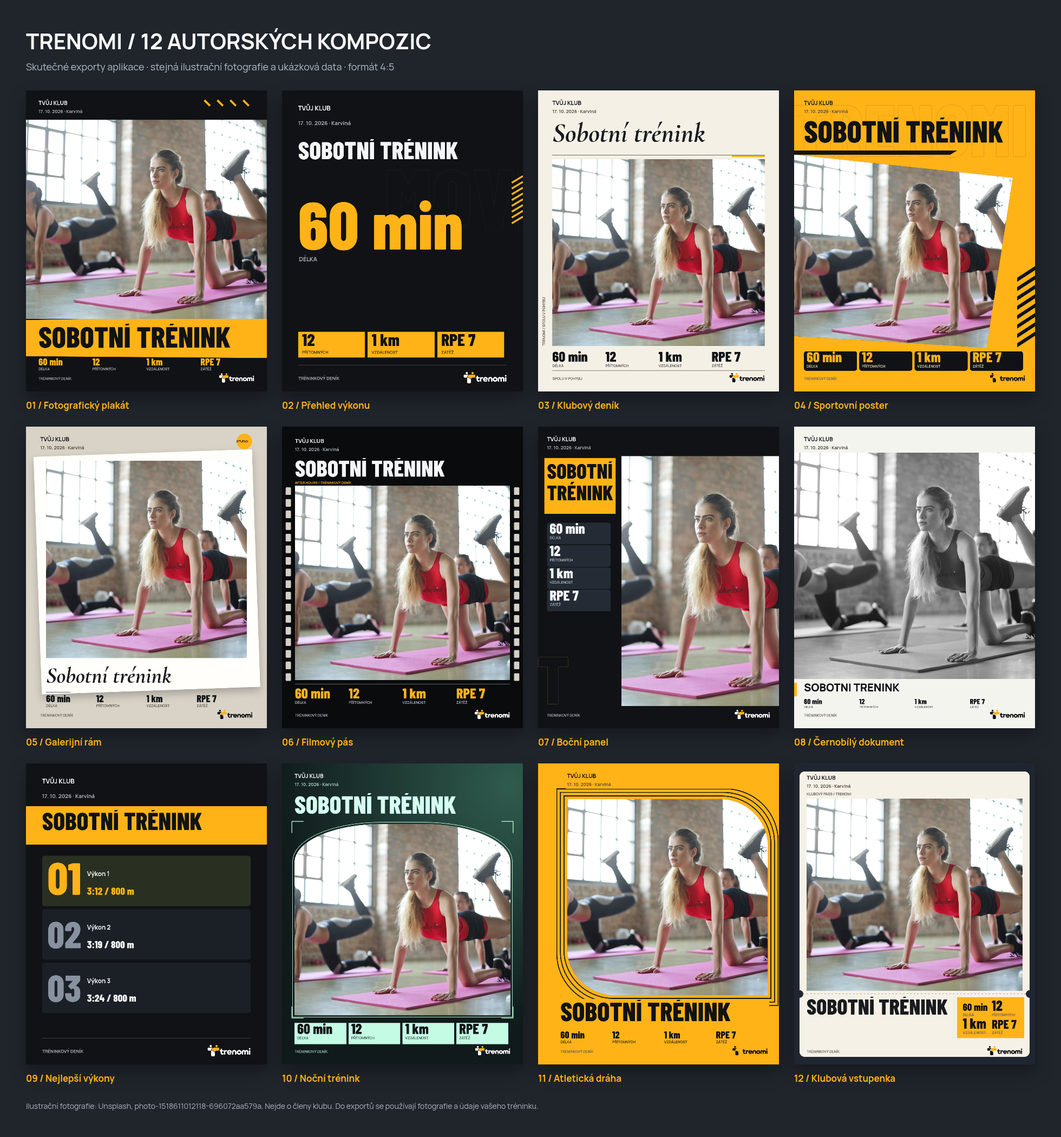
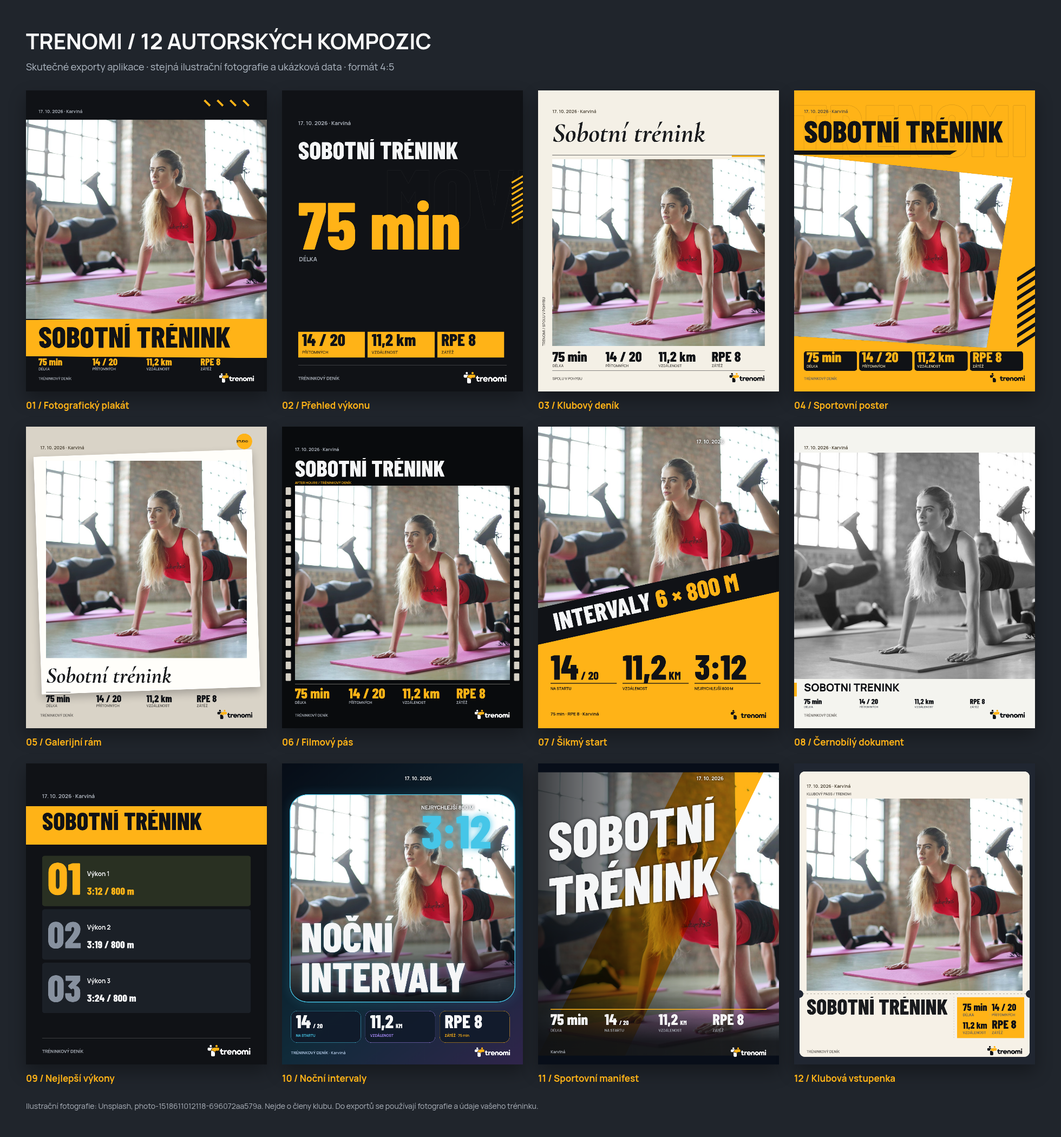
Replace sharing templates 07, 10 and 11 with bold reference-inspired posters

diff --git a/src/journalShare.ts b/src/journalShare.ts
@@ -1,11 +1,11 @@
 import {drawShareStickers,type ShareSticker} from './shareStickers';
 import {photoPlacement} from './sharePhotoTransform';
-import {photoShareLayout,usesSharePhoto,sharePhotoPath,type GraphicBox} from './journalShareLayouts';
+import {photoShareLayout,usesSharePhoto,sharePhotoPath,type GraphicBox,isSignatureTemplate} from './journalShareLayouts';
 export {usesSharePhoto} from './journalShareLayouts';
 export const shareFormats={'1:1':{width:1080,height:1080,label:'Příspěvek 1:1'},'4:5':{width:1080,height:1350,label:'Příspěvek 4:5'},'9:16':{width:1080,height:1920,label:'Story 9:16'}};
 export type ShareFormat=keyof typeof shareFormats;
 export type ShareTemplate='stats'|'photo'|'best'|'editorial'|'sport'|'frame'|'cinema'|'split'|'clean'|'neon'|'track'|'ticket'|'distance'|'column'|'headline';
-export const shareTemplates=[{id:'photo',name:'Fotografický plakát'},{id:'stats',name:'Přehled výkonu'},{id:'editorial',name:'Klubový deník'},{id:'sport',name:'Sportovní poster'},{id:'frame',name:'Galerijní rám'},{id:'cinema',name:'Filmový pás'},{id:'split',name:'Boční panel'},{id:'clean',name:'Černobílý dokument'},{id:'best',name:'Nejlepší výkony'},{id:'neon',name:'Noční trénink'},{id:'track',name:'Atletická dráha'},{id:'ticket',name:'Klubová vstupenka'}] as const;
+export const shareTemplates=[{id:'photo',name:'Fotografický plakát'},{id:'stats',name:'Přehled výkonu'},{id:'editorial',name:'Klubový deník'},{id:'sport',name:'Sportovní poster'},{id:'frame',name:'Galerijní rám'},{id:'cinema',name:'Filmový pás'},{id:'split',name:'Šikmý start'},{id:'clean',name:'Černobílý dokument'},{id:'best',name:'Nejlepší výkony'},{id:'neon',name:'Noční intervaly'},{id:'track',name:'Sportovní manifest'},{id:'ticket',name:'Klubová vstupenka'}] as const;
 export const editorTemplates=[{id:'distance',name:'Kilometry'},{id:'column',name:'Sloupec dat'},{id:'headline',name:'Jen titulek'}] as const;
 export type ShareGraphic={showClubIdentity?:boolean;accent?:string;stickers?:ShareSticker[];team:string;title:string;photo:string|null;photoFit?:'contain'|'cover';clubLogo?:string;date?:string;place?:string;crop?:{x:number;y:number;zoom:number};format:ShareFormat;template:ShareTemplate;metrics:{value:string;label:string}[];best:{name:string;value:string}[]};
 const orange='#FFB317',background='#101216',white='#F5F6F7',muted='#A9AFB8';
@@ -80,21 +80,8 @@ function photoGraphic(ctx:CanvasRenderingContext2D,input:ShareGraphic,brand:HTML
    for(let y=p.y+8;y<p.y+p.height-10;y+=52){rounded(ctx,{x:16,y,width:24,height:34},'#D5D0C5',4);rounded(ctx,{x:1040,y,width:24,height:34},'#D5D0C5',4)}
    text(ctx,'AFTER HOURS / TRÉNINKOVÝ DENÍK',58,p.y-8,964,15,orange);
    line(ctx,58,m.y-15,1022,m.y-15,'#D5D0C5',1);break;
-  case 'split':
-   rounded(ctx,{x:t.x-12,y:t.y-16,width:t.width+24,height:t.height+20},orange,0);l.ink=background;
-   if(input.format!=='9:16'){ctx.save();ctx.font='800 300px "Trenomi Display"';ctx.strokeStyle='#FFB31735';ctx.lineWidth=2;ctx.strokeText('T',-5,p.y+p.height-8);ctx.restore()}
-   break;
   case 'clean':
    ctx.fillStyle=orange;ctx.fillRect(0,t.y,12,t.height);break;
-  case 'neon':{
-   const glow=ctx.createRadialGradient(1030,100,10,1030,100,height);glow.addColorStop(0,'#2F5B4D');glow.addColorStop(.8,'#101A1B');ctx.fillStyle=glow;ctx.fillRect(0,0,1080,height);
-   sharePhotoPath(ctx,{x:p.x-8,y:p.y-8,width:p.width+16,height:p.height+16},'neon',input.photoFit??'cover');ctx.strokeStyle=(input.accent||'#BEFFD9');ctx.lineWidth=2;ctx.stroke();
-   for(let x=0;x<1080;x+=36)for(let y=top;y<height;y+=36){ctx.fillStyle='#C9FFE516';ctx.fillRect(x,y,2,2)}
-   for(const [x,y,sx,sy] of [[p.x-12,p.y-12,1,1],[p.x+p.width+12,p.y-12,-1,1],[p.x-12,p.y+p.height+12,1,-1],[p.x+p.width+12,p.y+p.height+12,-1,-1]]){line(ctx,x,y,x+sx*52,y,(input.accent||'#BEFFD9'),3);line(ctx,x,y,x,y+sy*52,(input.accent||'#BEFFD9'),3)}
-   break;}
-  case 'track':
-   ctx.save();ctx.beginPath();ctx.rect(0,0,1080,height);for(const b of [l.header,l.title,l.metrics,l.footer])ctx.rect(b.x-6,b.y-4,b.width+12,b.height+8);ctx.clip('evenodd');ctx.strokeStyle='#101216';ctx.lineWidth=4;
-   for(const inset of [14,30,46]){sharePhotoPath(ctx,{x:p.x-inset,y:p.y-inset,width:p.width+2*inset,height:p.height+2*inset},'track',input.photoFit??'cover');ctx.stroke()}ctx.restore();break;
   case 'ticket':
    rounded(ctx,{x:24,y:top-12,width:1032,height:height-top-(input.format==='9:16'?150:22)},'#F6F1E7',24);
    ctx.save();ctx.setLineDash([7,9]);line(ctx,24,t.y-12,1056,t.y-12,'#827D72',2);ctx.restore();
@@ -124,6 +111,56 @@ function photoGraphic(ctx:CanvasRenderingContext2D,input:ShareGraphic,brand:HTML
  }));
  clipped(ctx,l.footer,()=>{const w=160,h=w*420/1530;ctx.drawImage(brand,l.footer.x+l.footer.width-w,l.footer.y+(l.footer.height-h)/2,w,h);text(ctx,input.template==='editorial'?'SPOLU V POHYBU':'TRÉNINKOVÝ DENÍK',l.footer.x,l.footer.y+l.footer.height*.72,l.footer.width-w-28,16,l.light?'#65615C':l.muted)});
 }
+function signaturePhotoGraphic(ctx:CanvasRenderingContext2D,input:ShareGraphic,brand:HTMLImageElement,photo:HTMLImageElement|null,clubLogo:HTMLImageElement|null){
+ if(!isSignatureTemplate(input.template))return;
+ const l=photoShareLayout(input.template,input.format),p=l.photo,m=l.metrics,top=l.header.y,height=shareFormats[input.format].height,bottom=l.footer.y+l.footer.height,accent=input.accent||(input.template==='neon'?'#46C6E8':'#FFB317');
+ const metrics=input.metrics.filter(v=>v.label.trim()&&v.value.trim()),metric=(label:string)=>metrics.find(v=>v.label===label),fast=metrics.find(v=>v.label.toLocaleLowerCase('cs-CZ').startsWith('nejrychlejší '));
+ const present=metric('přítomných'),distance=metric('vzdálenost'),effort=metric('zátěž'),duration=metric('délka');
+ const caption=(v:ShareGraphic['metrics'][number])=>v.label==='přítomných'?'NA STARTU':v.label.toLocaleUpperCase('cs-CZ');
+ const number=(v:string,x:number,y:number,w:number,size:number,ink:string)=>{
+  const parts=v.match(/^(.+?)\s*(km|\/\s*\d+)$/i);
+  if(!parts){text(ctx,v,x,y,w,size,ink,true);return}
+  const unit=parts[2].toLocaleUpperCase('cs-CZ'),unitSize=Math.max(28,size*.33);ctx.font=`800 ${unitSize}px "Trenomi Display"`;const uw=ctx.measureText(unit).width;
+  text(ctx,parts[1],x,y,w-uw-12,size,ink,true);const nw=ctx.measureText(parts[1]).width;text(ctx,unit,x+Math.min(w-uw,nw+10),y,uw,unitSize,ink,true);
+ };
+ ctx.fillStyle=input.template==='split'?accent:'#080E19';ctx.fillRect(0,0,1080,height);
+ if(input.template==='neon'){
+  const glow=ctx.createLinearGradient(0,0,1080,height);glow.addColorStop(0,'#070D17');glow.addColorStop(.6,'#102B3A');glow.addColorStop(1,'#30254B');ctx.fillStyle=glow;ctx.fillRect(0,0,1080,height);
+  ctx.save();ctx.shadowBlur=38;ctx.shadowColor=accent;sharePhotoPath(ctx,p,input.template,input.photoFit??'cover');ctx.strokeStyle=accent;ctx.lineWidth=3;ctx.stroke();ctx.restore();
+ }
+ photoBox(ctx,photo,p,input);
+ if(input.template==='split'){
+  const angle=Math.atan2(-p.height*.25,p.width),cy=p.y+p.height*.875-60;
+  ctx.save();ctx.translate(540,cy);ctx.rotate(angle);ctx.fillStyle='#101216';ctx.fillRect(-650,-80,1300,160);
+  let size=112,lines:string[]=[];for(;size>26;size--){ctx.font=`800 ${size}px "Trenomi Display"`;lines=shareTitleLines(ctx,input.title.toLocaleUpperCase('cs-CZ'),960,2);if(lines.length*size<=135)break}
+  lines.forEach((value,i)=>{const y=-lines.length*size/2+size*.83+i*size,split=value.search(/\d/);ctx.font=`800 ${size}px "Trenomi Display"`;const first=split<0?value:value.slice(0,split),rest=split<0?'':value.slice(split);ctx.fillStyle=white;ctx.fillText(first,-480,y,960);const used=ctx.measureText(first).width;ctx.fillStyle=accent;if(rest)ctx.fillText(rest,-480+used,y,Math.max(1,960-used))});ctx.restore();
+  const values=[present,distance,fast||effort||duration].filter((v):v is NonNullable<typeof v>=>!!v),cw=m.width/Math.max(1,values.length);
+  values.forEach((v,i)=>{const x=m.x+i*cw;number(v.value,x,m.y+m.height*.72,cw-26,m.height*.88,background);rule(ctx,x,m.y+m.height*.8,cw-26,background);text(ctx,caption(v),x,m.y+m.height*.98,cw-26,17,background)});
+  const details=[duration?.value,effort?.value,input.place].filter(Boolean).join(' · ');text(ctx,details,56,bottom-12,730,20,background);
+ }else if(input.template==='neon'){
+  const shade=ctx.createLinearGradient(0,p.y+p.height*.56,0,p.y+p.height);shade.addColorStop(0,'#080E1900');shade.addColorStop(1,'#050A12F0');ctx.save();sharePhotoPath(ctx,p,input.template,input.photoFit??'cover');ctx.clip();ctx.fillStyle=shade;ctx.fillRect(p.x,p.y,p.width,p.height);
+  const words=input.title.trim().toLocaleUpperCase('cs-CZ').split(/\s+/).filter(Boolean),cut=Math.max(1,Math.floor(words.length/2)),lines=words.length>1?[words.slice(0,cut).join(' '),words.slice(cut).join(' ')]:words;
+  let size=Math.min(190,p.height*.2);ctx.font=`800 ${size}px "Trenomi Display"`;while(lines.some(value=>ctx.measureText(value).width>p.width-96)&&size>28)ctx.font=`800 ${--size}px "Trenomi Display"`;ctx.shadowColor=accent+'60';ctx.shadowBlur=18;lines.forEach((value,i)=>text(ctx,value,p.x+48,p.y+p.height-44-(lines.length-1-i)*size*.96,p.width-96,size,white,true));ctx.shadowBlur=0;
+  if(fast){const x=p.x+p.width-420,y=p.y+66;ctx.shadowColor='#050A12';ctx.shadowBlur=12;text(ctx,caption(fast),x,y,370,23,white);ctx.shadowColor=accent;ctx.shadowBlur=30;text(ctx,fast.value,x,y+176,370,210,accent,true)}ctx.restore();
+  ctx.save();sharePhotoPath(ctx,p,input.template,input.photoFit??'cover');ctx.strokeStyle=accent;ctx.lineWidth=3;ctx.stroke();ctx.restore();
+  const values=[present,distance,effort||duration].filter((v):v is NonNullable<typeof v>=>!!v),cw=m.width/Math.max(1,values.length);
+  values.forEach((v,i)=>{const x=m.x+i*cw,c=[accent,'#A88AF8','#FFB317'][i];rounded(ctx,{x,y:m.y,width:cw-20,height:m.height},'#101A2AE8',28);ctx.strokeStyle=c;ctx.lineWidth=1;ctx.beginPath();ctx.roundRect(x,m.y,cw-20,m.height,28);ctx.stroke();number(v.value,x+22,m.y+78,cw-58,83,white);text(ctx,caption(v)+(v===effort&&duration?' · '+duration.value:''),x+22,m.y+116,cw-58,16,c)});
+  text(ctx,['TRÉNINKOVÝ DENÍK',input.place].filter(Boolean).join(' · '),40,bottom-6,760,18,'#A9C0DC');
+ }else{
+  const shade=ctx.createLinearGradient(0,0,1080,0);shade.addColorStop(0,'#070A0EC9');shade.addColorStop(.75,'#070A0E00');ctx.fillStyle=shade;ctx.fillRect(0,p.y,1080,p.height);
+  ctx.save();ctx.globalCompositeOperation='multiply';polygon(ctx,[[650,p.y],[1010,p.y],[390,p.y+p.height],[0,p.y+p.height]],accent);ctx.restore();
+  const low=ctx.createLinearGradient(0,bottom-320,0,bottom);low.addColorStop(0,'#10121600');low.addColorStop(.8,'#101216ED');ctx.fillStyle=low;ctx.fillRect(0,bottom-320,1080,320);
+  const box={...l,ink:white,titleSize:240,titleLines:3};ctx.save();ctx.transform(1,-.13,0,1,0,80);ctx.shadowColor='#101216';ctx.shadowBlur=14;regionTitle(ctx,input,box);ctx.restore();
+  const values=metrics.filter(v=>v!==fast).slice(0,4),cw=m.width/Math.max(1,values.length);rule(ctx,m.x,m.y-14,m.width,accent);
+  values.forEach((v,i)=>{const x=m.x+i*cw;number(v.value,x,m.y+58,cw-20,69,white);text(ctx,caption(v),x,m.y+88,cw-20,16,muted)});
+  text(ctx,input.place||'TRÉNINKOVÝ DENÍK',56,bottom-10,750,18,muted);
+ }
+ // Club identity is opt-in; the editor's movable original logo/name remain independent.
+ if(input.showClubIdentity!==false){text(ctx,input.team,56,top+35,650,26,input.template==='split'?white:accent);if(clubLogo){const factor=Math.min(46/clubLogo.naturalWidth,46/clubLogo.naturalHeight);ctx.drawImage(clubLogo,56,top+48,clubLogo.naturalWidth*factor,clubLogo.naturalHeight*factor)}}
+ const dateX=input.template==='neon'?550:710;ctx.save();ctx.shadowColor='#05080A';ctx.shadowBlur=12;text(ctx,input.date||'',dateX,top+35,1080-dateX-56,22,white);ctx.restore();
+ ctx.drawImage(brand,862,bottom-38,162,162*420/1530);
+}
+
 function editorPhotoGraphic(ctx:CanvasRenderingContext2D,input:ShareGraphic,brand:HTMLImageElement,photo:HTMLImageElement|null,clubLogo:HTMLImageElement|null){
  const {height}=shareFormats[input.format],accent=input.accent||'#FFB317',story=input.format==='9:16',top=story?155:52,bottom=height-(story?175:56),left=56;
  photoBox(ctx,photo,{x:0,y:0,width:1080,height},input);
@@ -149,6 +186,7 @@ export async function renderShareGraphic(input:ShareGraphic){
  const canvas=document.createElement('canvas');canvas.width=width;canvas.height=height;const ctx=canvas.getContext('2d');if(!ctx)throw new Error('Grafiku nelze připravit.');ctx.fillStyle=background;ctx.fillRect(0,0,width,height);
  const orange=input.accent||'#FFB317';
  if(['distance','column','headline'].includes(input.template)){editorPhotoGraphic(ctx,input,brand,photo,clubLogo);drawShareStickers(ctx,input.stickers,width,height,orange,clubLogo);return canvas}
+ if(isSignatureTemplate(input.template)){signaturePhotoGraphic(ctx,input,brand,photo,clubLogo);drawShareStickers(ctx,input.stickers,width,height,orange,clubLogo);return canvas}
  if(usesSharePhoto(input.template)){photoGraphic(ctx,input,brand,photo,clubLogo);drawShareStickers(ctx,input.stickers,width,height,orange,clubLogo);return canvas}
  const story=input.format==='9:16',top=story?160:64,bottom=height-(story?170:64),left=72,right=1008,contentWidth=936;
  // Club identity and application brand stay inside Story safe areas.

diff --git a/src/JournalSharePanel.tsx b/src/JournalSharePanel.tsx
@@ -22,7 +22,8 @@ export function JournalSharePanel({team,eventName,photo,clubLogo,date,place,metr
  const [removals,setRemovals]=useState<RemovedField[]>([]);
  const [crop,setCrop]=useState({x:.5,y:.5,zoom:1}),[photoFit,setPhotoFit]=useState<'contain'|'cover'>('cover'),[pickerOpen,setPickerOpen]=useState(false),[preciseOpen,setPreciseOpen]=useState(()=>!window.matchMedia('(hover: none) and (pointer: coarse)').matches);
  const preview=useRef<HTMLCanvasElement>(null),rendered=useRef<HTMLCanvasElement|null>(null),exportSection=useRef<HTMLElement>(null);
- const previousCaption=useRef(defaultCaption);
+ const previousCaption=useRef(defaultCaption),accentChosen=useRef(false);
+ function chooseTemplate(value:ShareTemplate){setTemplate(value);if(!accentChosen.current)setAccent(value==='neon'?'#46C6E8':'#FFB317')}
  useEffect(()=>{const media=window.matchMedia('(hover: none) and (pointer: coarse)'),changed=()=>setPreciseOpen(!media.matches);media.addEventListener('change',changed);return()=>media.removeEventListener('change',changed)},[]);
  useEffect(()=>{setCaption(value=>value===previousCaption.current?defaultCaption:value);previousCaption.current=defaultCaption},[defaultCaption]);
  useEffect(()=>{setCrop({x:.5,y:.5,zoom:1})},[photo]);
@@ -66,8 +67,8 @@ export function JournalSharePanel({team,eventName,photo,clubLogo,date,place,metr
  </section><section className="share-editor-tools" aria-label="Nástroje editoru"><div className="share-editor-tabs" role="tablist" aria-label="Editor obrázku">{([['templates','Šablony'],['data','Data'],['stickers','Samolepky']] as const).map(([id,label])=><button key={id} role="tab" id={'share-tab-'+id} aria-selected={tab===id} aria-controls={'share-panel-'+id} onClick={()=>setTab(id)} onKeyDown={e=>{const ids=['templates','data','stickers'] as const,index=ids.indexOf(id);const next=e.key==='ArrowRight'?(index+1)%3:e.key==='ArrowLeft'?(index+2)%3:e.key==='Home'?0:e.key==='End'?2:-1;if(next>=0){e.preventDefault();setTab(ids[next]);e.currentTarget.parentElement?.querySelectorAll('button')[next]?.focus()}}}>{label}</button>)}</div>
  <div role="tabpanel" id="share-panel-templates" aria-labelledby="share-tab-templates" hidden={tab!=='templates'}>
 
- <details className="share-template-picker" open={pickerOpen} onToggle={e=>setPickerOpen(e.currentTarget.open)}><summary aria-label="Vybrat šablonu grafiky">{selectedTemplateIndex>=0&&<b className="share-template-number">{String(selectedTemplateIndex+1).padStart(2,'0')}</b>} <span>{allTemplates.find(t=>t.id===template)?.name}</span><small>Vybrat vzhled · {allTemplates.length}</small></summary>{pickerOpen&&<div className="share-template-cards" role="group" aria-label="Šablona grafiky">{allTemplates.map(t=><button key={t.id} aria-label={t.name} aria-pressed={template===t.id} onClick={()=>{setTemplate(t.id);setPickerOpen(false)}}><TemplatePreview graphic={{...graphic,format:'4:5',crop:{x:.5,y:.5,zoom:1},template:t.id}}/>{shareTemplates.some(v=>v.id===t.id)&&<b className="share-template-number">{String(shareTemplates.findIndex(v=>v.id===t.id)+1).padStart(2,'0')}</b>}<span>{t.name}</span></button>)}</div>}</details>
- <fieldset className="share-accent-picker"><legend>Barva grafiky</legend>{shareAccents.map(a=><button key={a.value} aria-label={a.name} aria-pressed={accent===a.value} style={{background:a.value}} onClick={()=>setAccent(a.value)}/>)}</fieldset><p className="muted">Barva platí pro tento obrázek. Klubové nastavení se nemění.</p>
+ <details className="share-template-picker" open={pickerOpen} onToggle={e=>setPickerOpen(e.currentTarget.open)}><summary aria-label="Vybrat šablonu grafiky">{selectedTemplateIndex>=0&&<b className="share-template-number">{String(selectedTemplateIndex+1).padStart(2,'0')}</b>} <span>{allTemplates.find(t=>t.id===template)?.name}</span><small>Vybrat vzhled · {allTemplates.length}</small></summary>{pickerOpen&&<div className="share-template-cards" role="group" aria-label="Šablona grafiky">{allTemplates.map(t=><button key={t.id} aria-label={t.name} aria-pressed={template===t.id} onClick={()=>{chooseTemplate(t.id);setPickerOpen(false)}}><TemplatePreview graphic={{...graphic,format:'4:5',crop:{x:.5,y:.5,zoom:1},template:t.id}}/>{shareTemplates.some(v=>v.id===t.id)&&<b className="share-template-number">{String(shareTemplates.findIndex(v=>v.id===t.id)+1).padStart(2,'0')}</b>}<span>{t.name}</span></button>)}</div>}</details>
+ <fieldset className="share-accent-picker"><legend>Barva grafiky</legend>{shareAccents.map(a=><button key={a.value} aria-label={a.name} aria-pressed={accent===a.value} style={{background:a.value}} onClick={()=>{accentChosen.current=true;setAccent(a.value)}}/>)}</fieldset><p className="muted">Barva platí pro tento obrázek. Klubové nastavení se nemění.</p>
  </div><div role="tabpanel" id="share-panel-data" aria-labelledby="share-tab-data" hidden={tab!=='data'}>
  {usesSharePhoto(template)&&(photo?<fieldset className="share-crop"><legend>Výřez fotografie</legend><label>Zobrazení<select aria-label="Zobrazení fotografie" value={photoFit} onChange={e=>setPhotoFit(e.target.value as 'contain'|'cover')}><option value="contain">Celá fotografie</option><option value="cover">Vyplnit rámeček</option></select></label><p className="share-touch-help" id="share-touch-help">Fotografii posuňte prstem, dvěma prsty ji přibližte nebo oddalte.</p><details className="share-precise-controls" open={preciseOpen} onToggle={e=>setPreciseOpen(e.currentTarget.open)}><summary>Přesné nastavení výřezu</summary>{([['Přiblížení fotografie','zoom',1,3,.05],['Vodorovný posun fotografie','x',0,1,.01],['Svislý posun fotografie','y',0,1,.01]] as const).map(([label,field,min,max,step])=><label key={field}>{label}<input aria-label={label} type="range" min={min} max={max} step={step} value={crop[field]} onChange={e=>setCrop(c=>({...c,[field]:Number(e.target.value)}))}/></label>)}</details><button className="text-button" onClick={()=>setCrop({x:.5,y:.5,zoom:1})}>Obnovit výřez</button><small>Původní fotka se nemění. Další vyberete v galerii tréninku.</small></fieldset>:<p className="muted">Přidejte nebo vyberte fotografii v galerii tréninku. Zatím se použije grafické pozadí.</p>)}
  <label className="share-names"><input type="checkbox" checked={showDate} onChange={e=>fieldVisibility('date',e.target.checked)}/> Zobrazit datum</label><label className="share-names"><input type="checkbox" checked={showPlace} onChange={e=>fieldVisibility('place',e.target.checked)}/> Zobrazit místo</label><label className="share-names"><input type="checkbox" checked={showTitle} onChange={e=>fieldVisibility('title',e.target.checked)}/> Zobrazit titulek</label><label>Titulek grafiky<input aria-label="Titulek grafiky" value={title} maxLength={100} onChange={e=>setTitle(e.target.value)}/></label><fieldset className="share-data-toggles"><legend>Údaje z tréninku</legend>{metrics.map(m=><label key={m.label}><input type="checkbox" checked={!hiddenMetrics.includes(m.label)} onChange={()=>metricVisibility(m.label,hiddenMetrics.includes(m.label))}/><span>{m.label}<strong>{m.value}</strong></span></label>)}{!metrics.length&&<p className="muted">Trénink zatím nemá vyplněné údaje.</p>}</fieldset><p className="muted">Údaje se přebírají z deníku. Jejich skrytí upraví pouze tento obrázek.</p>{template==='best'&&<label className="share-names"><input type="checkbox" checked={names} onChange={e=>setNames(e.target.checked)}/> Zahrnout jména členů do grafiky</label>}

diff --git a/src/journalShareLayouts.ts b/src/journalShareLayouts.ts
@@ -3,6 +3,7 @@ export type GraphicBox={x:number;y:number;width:number;height:number};
 export type PhotoShareTemplate=Exclude<ShareTemplate,'stats'|'best'>;
 export const usesSharePhoto=(template:ShareTemplate):template is PhotoShareTemplate=>template!=='stats'&&template!=='best';
 export type PhotoShareLayout={photo:GraphicBox;header:GraphicBox;title:GraphicBox;metrics:GraphicBox;footer:GraphicBox;metricColumns:number;background:string;ink:string;muted:string;light:boolean;titleSize:number;titleFace?:'serif'|'text';titleLines?:number};
+export const isSignatureTemplate=(template:ShareTemplate):template is 'split'|'neon'|'track'=>['split','neon','track'].includes(template);
 /** Art direction is per composition; shared rectangles keep typography out of the photograph. */
 export function photoShareLayout(template:PhotoShareTemplate,format:ShareFormat):PhotoShareLayout{
  const height={'1:1':1080,'4:5':1350,'9:16':1920}[format],story=format==='9:16',top=story?150:40,bottom=height-(story?170:40),h=bottom-top;
@@ -14,10 +15,10 @@ export function photoShareLayout(template:PhotoShareTemplate,format:ShareFormat)
   case 'sport':return {...layout,background:'#FFB317',ink:'#101216',muted:'#423613',light:true,title:box(44,top+82,980,140),header:box(44,top,980,70),photo:box(0,top+248,980,h-404),metrics:box(44,bottom-140,992,90),footer:box(44,bottom-44,992,44),titleSize:148};
   case 'frame':return {...layout,background:'#D9D3C7',ink:'#191B1E',muted:'#65615C',light:true,photo:box(90,top+112,900,h-386),header:box(64,top,836,70),title:box(90,bottom-246,900,122),metrics:box(90,bottom-110,900,60),footer:box(64,bottom-44,952,44),titleSize:100,titleFace:'serif'};
   case 'cinema':return {...layout,background:'#090B0D',photo:box(58,top+224,964,h-400),header:box(58,top+8,964,70),title:box(58,top+100,964,106),metrics:box(58,bottom-142,964,90),footer:box(58,bottom-44,964,44),titleSize:112};
-  case 'split':return story?{...layout,background:'#161C23',photo:box(0,top+90,1080,h-390),title:box(48,bottom-276,492,170),metrics:box(604,bottom-266,428,158),metricColumns:2,titleSize:84}:{...layout,header:box(40,top,1000,70),photo:box(374,top+92,706,h-152),title:box(40,top+116,296,230),metrics:box(40,top+390,296,Math.min(400,h-470)),metricColumns:1,footer:box(40,bottom-44,1000,44),titleSize:94,titleLines:4};
+  case 'split':return {...layout,background:'#FFB317',ink:'#101216',light:true,photo:box(0,story?top:0,1080,h*.72+(story?0:top)),title:box(40,top+h*.5,1000,h*.2),metrics:box(56,top+h*.76,968,h*.14),footer:box(56,bottom-55,968,50)};
   case 'clean':return {...layout,background:'#F4F4EF',ink:'#101216',muted:'#62666C',light:true,photo:box(0,top+76,1080,h-256),header:box(44,top,992,66),title:box(44,bottom-164,992,62),metrics:box(44,bottom-94,992,46),footer:box(44,bottom-44,992,44),titleSize:48,titleFace:'text'};
-  case 'neon':return {...layout,background:'#101A1B',ink:'#D4FFF0',muted:'#A4C9BC',title:box(56,top+94,968,114),titleSize:124,photo:box(56,top+232,968,h-412),metrics:box(56,bottom-146,968,98),footer:box(56,bottom-44,968,44)};
-  case 'track':return {...layout,background:'#FFB317',ink:'#101216',muted:'#423613',light:true,header:box(130,top,900,70),photo:box(130,top+120,900,h-390),title:box(100,bottom-250,930,120),metrics:box(100,bottom-110,930,60),footer:box(100,bottom-44,930,44),titleSize:126};
+  case 'neon':return {...layout,background:'#080E19',photo:box(36,top+100,1008,h-340),title:box(82,bottom-490,900,230),metrics:box(40,bottom-200,1000,142),footer:box(40,bottom-42,1000,42),titleSize:140};
+  case 'track':return {...layout,background:'#101216',photo:box(0,top,1080,h),title:box(45,top+130,850,h-340),metrics:box(56,bottom-195,968,110),footer:box(56,bottom-48,968,48),titleSize:220};
   case 'ticket':return {...layout,background:'#202631',ink:'#191B1E',muted:'#65615C',light:true,header:box(56,top+8,968,70),photo:box(56,top+118,968,h-408),title:box(56,bottom-264,636,188),metrics:box(756,bottom-250,260,160),metricColumns:2,footer:box(56,bottom-44,968,44),titleSize:118};
   default:return layout;
  }
@@ -26,14 +27,14 @@ export function photoShareLayout(template:PhotoShareTemplate,format:ShareFormat)
 export function sharePhotoPath(ctx:CanvasRenderingContext2D,b:GraphicBox,template:ShareTemplate,fit:'contain'|'cover'='cover'){
  ctx.beginPath();
  if(fit==='cover'&&template==='sport'){ctx.moveTo(b.x,b.y);ctx.lineTo(b.x+b.width,b.y+b.height*.12);ctx.lineTo(b.x+b.width*.88,b.y+b.height);ctx.lineTo(b.x,b.y+b.height*.94);ctx.closePath()}
- else if(fit==='cover'&&template==='neon')ctx.roundRect(b.x,b.y,b.width,b.height,[{x:b.width*.4,y:b.height*.2},{x:b.width*.4,y:b.height*.2},0,0]);
- else if(fit==='cover'&&template==='track')ctx.roundRect(b.x,b.y,b.width,b.height,[0,{x:b.width*.24,y:b.height*.24},0,{x:b.width*.24,y:b.height*.24}]);
+ else if(fit==='cover'&&template==='neon')ctx.roundRect(b.x,b.y,b.width,b.height,{x:b.width*.08,y:b.height*.08});
+ else if(fit==='cover'&&template==='split'){ctx.moveTo(b.x,b.y);ctx.lineTo(b.x+b.width,b.y);ctx.lineTo(b.x+b.width,b.y+b.height*.75);ctx.lineTo(b.x,b.y+b.height);ctx.closePath()}
  else ctx.rect(b.x,b.y,b.width,b.height);
 }
 export function sharePhotoClipStyle(template:ShareTemplate,fit:'contain'|'cover'){
  if(fit==='contain')return {};
  if(template==='sport')return {clipPath:'polygon(0 0, 100% 12%, 88% 100%, 0 94%)'};
- if(template==='neon')return {borderRadius:'40% 40% 0 0 / 20% 20% 0 0',overflow:'hidden' as const};
- if(template==='track')return {borderRadius:'0 24% 0 24%',overflow:'hidden' as const};
+ if(template==='neon')return {borderRadius:'8%',overflow:'hidden' as const};
+ if(template==='split')return {clipPath:'polygon(0 0,100% 0,100% 75%,0 100%)'};
  return {};
 }

diff --git a/src/TrainingJournalDetail.tsx b/src/TrainingJournalDetail.tsx
@@ -22,7 +22,7 @@ export function TrainingJournalDetail({client,club,data,event,now,busy,clubLogo,
  const ranking=stats.rows.filter(p=>p.distance_m===selectedDistance&&p.interval_ms.length).sort((a,b)=>averageInterval(a)!-averageInterval(b)!).slice(0,5);
  const roster=event.completed_at?data.members.filter(m=>data.participation.some(p=>p.event_id===event.id&&p.member_id===m.id)):reviewMembers(data,event),participation=roster.map(m=>data.participation.find(p=>p.member_id===m.id&&p.event_id===event.id)),present=participation.filter(p=>p?.attended===true&&!p.attendance_excused).length,excused=participation.filter(p=>p?.attendance_excused).length,absent=participation.filter(p=>p?.attended===false&&!p.attendance_excused).length,unknown=roster.length-present-excused-absent;
  const counts=[{name:'přišlo',count:present,color:'#79df8b'},{name:'omluveno',count:excused,color:'#ae8af8'},{name:'bez omluvy',count:absent,color:'#fb7c83'},{name:'neověřeno',count:unknown,color:'#687587'}];
- const metrics=[...(event.actual_duration_minutes!=null?[{value:String(event.actual_duration_minutes)+' min',label:'délka'}]:[]),{value:String(present),label:'přítomných'},...(event.actual_distance_km!=null?[{value:number(Number(event.actual_distance_km))+' km',label:'vzdálenost'}]:[]),...(event.perceived_effort!=null?[{value:'RPE '+event.perceived_effort,label:'zátěž'}]:[])];
+ const metrics=[...(event.actual_duration_minutes!=null?[{value:String(event.actual_duration_minutes)+' min',label:'délka'}]:[]),{value:String(present),label:'přítomných'},...(event.actual_distance_km!=null?[{value:number(Number(event.actual_distance_km))+' km',label:'vzdálenost'}]:[]),...(event.perceived_effort!=null?[{value:'RPE '+event.perceived_effort,label:'zátěž'}]:[]),...(fastest?[{value:intervalTime(fastest.ms),label:`nejrychlejší ${selectedDistance} m`}]:[])];
  const date=new Date(event.starts_at).toLocaleDateString('cs-CZ',{timeZone:'Europe/Prague',weekday:'long',day:'numeric',month:'long'}),time=(t:number)=>new Date(t).toLocaleTimeString('cs-CZ',{timeZone:'Europe/Prague',hour:'2-digit',minute:'2-digit'});
  const caption=`${event.name}\n${date} · ${present} přítomných${event.actual_distance_km!=null?' · '+number(Number(event.actual_distance_km))+' km':''}${event.perceived_effort!=null?' · RPE '+event.perceived_effort:''}\n${club.name}`;
  const disabled=busy||event.status==='cancelled',completionIssues=trainingCompletionIssues(data,event,now);

diff --git a/src/journalShareLayouts.test.ts b/src/journalShareLayouts.test.ts
@@ -1,16 +1,16 @@
 import {describe,it,expect} from 'vitest';
-import {photoShareLayout,usesSharePhoto,type GraphicBox} from './journalShareLayouts';
+import {photoShareLayout,usesSharePhoto,isSignatureTemplate,type GraphicBox} from './journalShareLayouts';
 import {shareFormats,shareTemplates} from './journalShare';
 const overlap=(a:GraphicBox,b:GraphicBox)=>a.x<b.x+b.width&&a.x+a.width>b.x&&a.y<b.y+b.height&&a.y+a.height>b.y;
 describe('photo-first sharing layouts',()=>{
  for(const template of shareTemplates.filter(t=>usesSharePhoto(t.id)))for(const format of Object.keys(shareFormats) as (keyof typeof shareFormats)[]){
-  it(`${template.id} ${format}: photograph is dominant and separate from all text`,()=>{
+  it(`${template.id} ${format}: photograph remains dominant with valid export areas`,()=>{
    if(!usesSharePhoto(template.id))throw new Error('Expected photographic template');
    const layout=photoShareLayout(template.id,format),size=shareFormats[format];
    const areas=[layout.header,layout.title,layout.metrics,layout.footer];
    for(const box of [layout.photo,...areas]){expect(box.x).toBeGreaterThanOrEqual(0);expect(box.y).toBeGreaterThanOrEqual(format==='9:16'?150:0);expect(box.width).toBeGreaterThan(0);expect(box.height).toBeGreaterThan(0);expect(box.x+box.width).toBeLessThanOrEqual(size.width);expect(box.y+box.height).toBeLessThanOrEqual(size.height-(format==='9:16'?160:0))}
-   for(const box of areas)expect(overlap(layout.photo,box)).toBe(false);
-   for(let i=0;i<areas.length;i++)for(let j=i+1;j<areas.length;j++)expect(overlap(areas[i],areas[j])).toBe(false);
+   if(isSignatureTemplate(template.id)){expect(overlap(layout.photo,layout.title)).toBe(true);expect(layout.photo.width).toBeGreaterThanOrEqual(1008)}
+   else{for(const box of areas)expect(overlap(layout.photo,box)).toBe(false);for(let i=0;i<areas.length;i++)for(let j=i+1;j<areas.length;j++)expect(overlap(areas[i],areas[j])).toBe(false)}
    expect(layout.photo.width*layout.photo.height/(size.width*size.height)).toBeGreaterThan(.45);
   });
  }

diff --git a/docs/SHARE_GRAPHICS.md b/docs/SHARE_GRAPHICS.md
@@ -14,17 +14,21 @@ Přehled výše vzniká přímo stejným Canvas rendererem jako stažené PNG. P
 | 04 Sportovní poster | Žlutá kampaňová grafika, velký název, diagonální fotografický výřez a černé datové štítky. |
 | 05 Galerijní rám | Nakloněná papírová karta se stínem, fotografií a serifovým popiskem. |
 | 06 Filmový pás | Filmové perforace po stranách, titulková sazba a tmavá kompozice. |
-| 07 Boční panel | Portrétní karta s fotografií vpravo, žlutým názvem a datovými štítky vlevo; ve Story rozvržení nad sebou. |
+| 07 Šikmý start | Dominantní fotografie, šikmý černý pás s bílým názvem a barevnou disciplínou, velké černé hodnoty v akcentové spodní části. |
 | 08 Černobílý dokument | Velká monochromatická fotografie a drobná čistá sazba. Černobílá úprava platí jen pro export, ne pro originál. |
 | 09 Nejlepší výkony | Tři výsledkové karty s velkým pořadím, skutečnými hodnotami a jmény standardně skrytými. Bez fotografie. |
-| 10 Noční trénink | Tmavý zelený přechod, jemná bodová síť, obloukový fotografický rám a mátové datové bloky. |
-| 11 Atletická dráha | Žluté pozadí a soustředné atletické ovály kolem asymetricky zaoblené fotografie. |
+| 10 Noční intervaly | Modrý světelný rám, velký dvouřádkový bílý nadpis uvnitř fotografie, skutečný nejrychlejší úsek a tři samostatné datové karty. |
+| 11 Sportovní manifest | Celoplošná fotografie, obří bílá sportovní typografie ve sklonu, diagonální akcentový pás a kompaktní údaje u spodního okraje. |
 | 12 Klubová vstupenka | Krémová perforovaná vstupenka, fotografie a samostatný žlutý datový útržek. Nejde o vstupní oprávnění ani QR kód. |
 
-Volbu otevřete kliknutím na aktuální šablonu (**Změnit · 12 šablon**). Nabídka obsahuje číslované miniatury a po volbě se zavře. Náhledy nabídky se vykreslují jen při jejím otevření.
+Volbu otevřete kliknutím na aktuální šablonu (**Vybrat vzhled · 15**). Nabídka obsahuje číslované miniatury a po volbě se zavře. Náhledy nabídky se vykreslují jen při jejím otevření.
 
-U všech deseti fotografických šablon mají klubová hlavička, název, metriky i značka oddělené plochy mimo fotografii. Snímek se nepřekrývá textem. Dlouhé názvy se zalomí, případně zmenší či zkrátí výpustkou. Sportovní, noční a atletický styl mají ve vyplněném režimu vlastní tvar fotografického rámečku; volba Celá fotografie zachová obdélníkový snímek celý.
-Náhledové kartičky používají aktuální údaje. Grafika zahrnuje název a dostupné logo klubu, datum v časové zóně Europe/Prague, místo a oficiální logo Trenomi. Chybějící délka, vzdálenost či RPE se nevymýšlí. Výstup používá barvy #FFB317 a #101216 nezávisle na režimu aplikace.
+Sedm původních fotografických šablon drží typografii mimo snímek. Nové návrhy **07, 10 a 11** podle předloh záměrně kombinují fotografii s velkými nadpisy či šikmým pásem. Výřez lze upravit tak, aby hlavní osoby zůstaly viditelné. Noční rám a diagonální výřez mají odpovídající tvar dotykové plochy. Volba Celá fotografie zachová celý obdélníkový snímek.
+Náhledové kartičky používají aktuální údaje. Logo a název klubu se vkládají volitelně jako posuvný prvek, datum používá časové pásmo Europe/Prague. Chybějící délka, vzdálenost, RPE ani nejrychlejší úsek se nevymýšlí. Nejrychlejší úsek v 07/10 se přebírá ze skutečně změřeného nejrychlejšího úseku vybrané délky v deníku, nikoli z průměru žebříčku. Lze ho skrýt i obnovit jako ostatní údaje.
+
+![Nové skutečné exporty 07, 10 a 11](designs/trenomi-share-07-10-11.png)
+
+Šablona 10 má výchozí modrý akcent, 07 a 11 původní oranžovou #FFB317. Ručně vybraná barva ze 16 odstínů se při změně šablony zachovává. Pozadí a barevné proměnné aplikace se nemění.
 
 ## Fotografie a výřez
 
@@ -81,7 +85,7 @@ Na PC je okno sdílení explicitně vystředěné a široké až 960 px. V dení
 **Sdílet trénink → Upravit obrázek** nyní otevírá fotografické studio. Mobil má náhled nad záložkami **Šablony / Data / Samolepky**, na PC jsou nástroje vedle náhledu. **Další** přesune fokus k textu příspěvku a exportu.
 
 - **Šablony:** nové celoplošné fotografické kompozice **Kilometry, Sloupec dat, Jen titulek**. Všechny kompozice jsou v jednom výběru 15 šablon, který ukazuje aktivní název. Dosavadních 12 návrhů zůstává očíslovaných 01–12. Nové kompozice používají záměrný překryv typografie přes fotografii podle návrhu editoru; původní šablony zachovávají oddělené oblasti fotografie a textu.
-- **Barva grafiky:** 16 odstínů včetně původní oranžové `#FFB317`; akcent se promítá také do starších šablon včetně Nočního tréninku. Volba mění tento export, nikoli barvy aplikace či klubová data.
+- **Barva grafiky:** 16 odstínů včetně původní oranžové `#FFB317`; akcent se promítá také do starších šablon včetně Nočních intervalů. Volba mění tento export, nikoli barvy aplikace či klubová data.
 - **Data:** titulek, přepínače skutečných údajů z deníku, výřez, celá fotografie / vyplnění rámečku a přesné posuvníky. Na mobilu funguje i přímý posun a pinch fotografie.
 - **Samolepky:** odznak, páska, kruh docházky, kilometry, razítko, blesk, série, RPE, lístek, obrysový nápis, tým na startu a rekord. Dostupné údaje se vyplňují z tréninku; série a rekord vyžadují vlastní text před exportem. Výpočet docházky vychází ze skutečné přítomnosti a soupisky tréninku, nikoli z odpovědí na pozvánku.
 - Lze vložit až 16 samolepek, posouvat je myší/prstem/šipkami, otáčet a měnit velikost tažením za roh nebo dvěma prsty, použít posuvníky, upravit text, duplikovat, odstranit a změnit pořadí vrstev. Vložené vrstvy mají samostatný seznam pro výběr překrytých samolepek.
